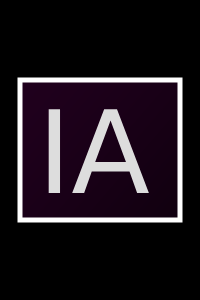
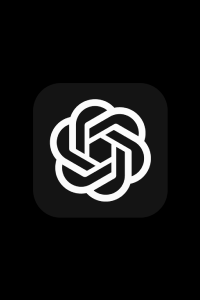
Correção no nome e imagem do módulo 6

Changed region(s): [[0.06, 0.24, 0.93, 0.75], [0.24, 0.33, 0.78, 0.69]]

diff --git a/src/app/dashboard/page.jsx b/src/app/dashboard/page.jsx
@@ -7,10 +7,34 @@ import useUser from "./hooks/useUser";
 import Loading from "../components/Loading";
 
 const carouselData = [
-  { image: "/module1.webp", alt: "Módulo 1: HTML e CSS", module: "MÓDULO 1", title: "HTML e CSS", link: "dashboard/modules/module1" },
-  { image: "/module2.webp", alt: "Módulo 2: JavaScript", module: "MÓDULO 2", title: "JavaScript", link: "dashboard/modules/module2" },
-  { image: "/module3.webp", alt: "Módulo 3: React.js", module: "MÓDULO 3", title: "React.js", link: "dashboard/modules/module3" },
-  { image: "/module4.webp", alt: "Módulo 4: Next.js", module: "MÓDULO 4", title: "Next.js", link: "dashboard/modules/module4" },
+  {
+    image: "/module1.webp",
+    alt: "Módulo 1: HTML e CSS",
+    module: "MÓDULO 1",
+    title: "HTML e CSS",
+    link: "dashboard/modules/module1",
+  },
+  {
+    image: "/module2.webp",
+    alt: "Módulo 2: JavaScript",
+    module: "MÓDULO 2",
+    title: "JavaScript",
+    link: "dashboard/modules/module2",
+  },
+  {
+    image: "/module3.webp",
+    alt: "Módulo 3: React.js",
+    module: "MÓDULO 3",
+    title: "React.js",
+    link: "dashboard/modules/module3",
+  },
+  {
+    image: "/module4.webp",
+    alt: "Módulo 4: Next.js",
+    module: "MÓDULO 4",
+    title: "Next.js",
+    link: "dashboard/modules/module4",
+  },
   {
     image: "/module5.webp",
     alt: "Módulo 5: Integração com APIs",
@@ -20,9 +44,9 @@ const carouselData = [
   },
   {
     image: "/module6.webp",
-    alt: "Módulo 6: Projetos com IA",
+    alt: "Módulo 6: IA com ChatGPT",
     module: "MÓDULO 6",
-    title: "Projetos com IA",
+    title: "IA com ChatGPT",
     link: "dashboard/modules/module6",
   },
   {
